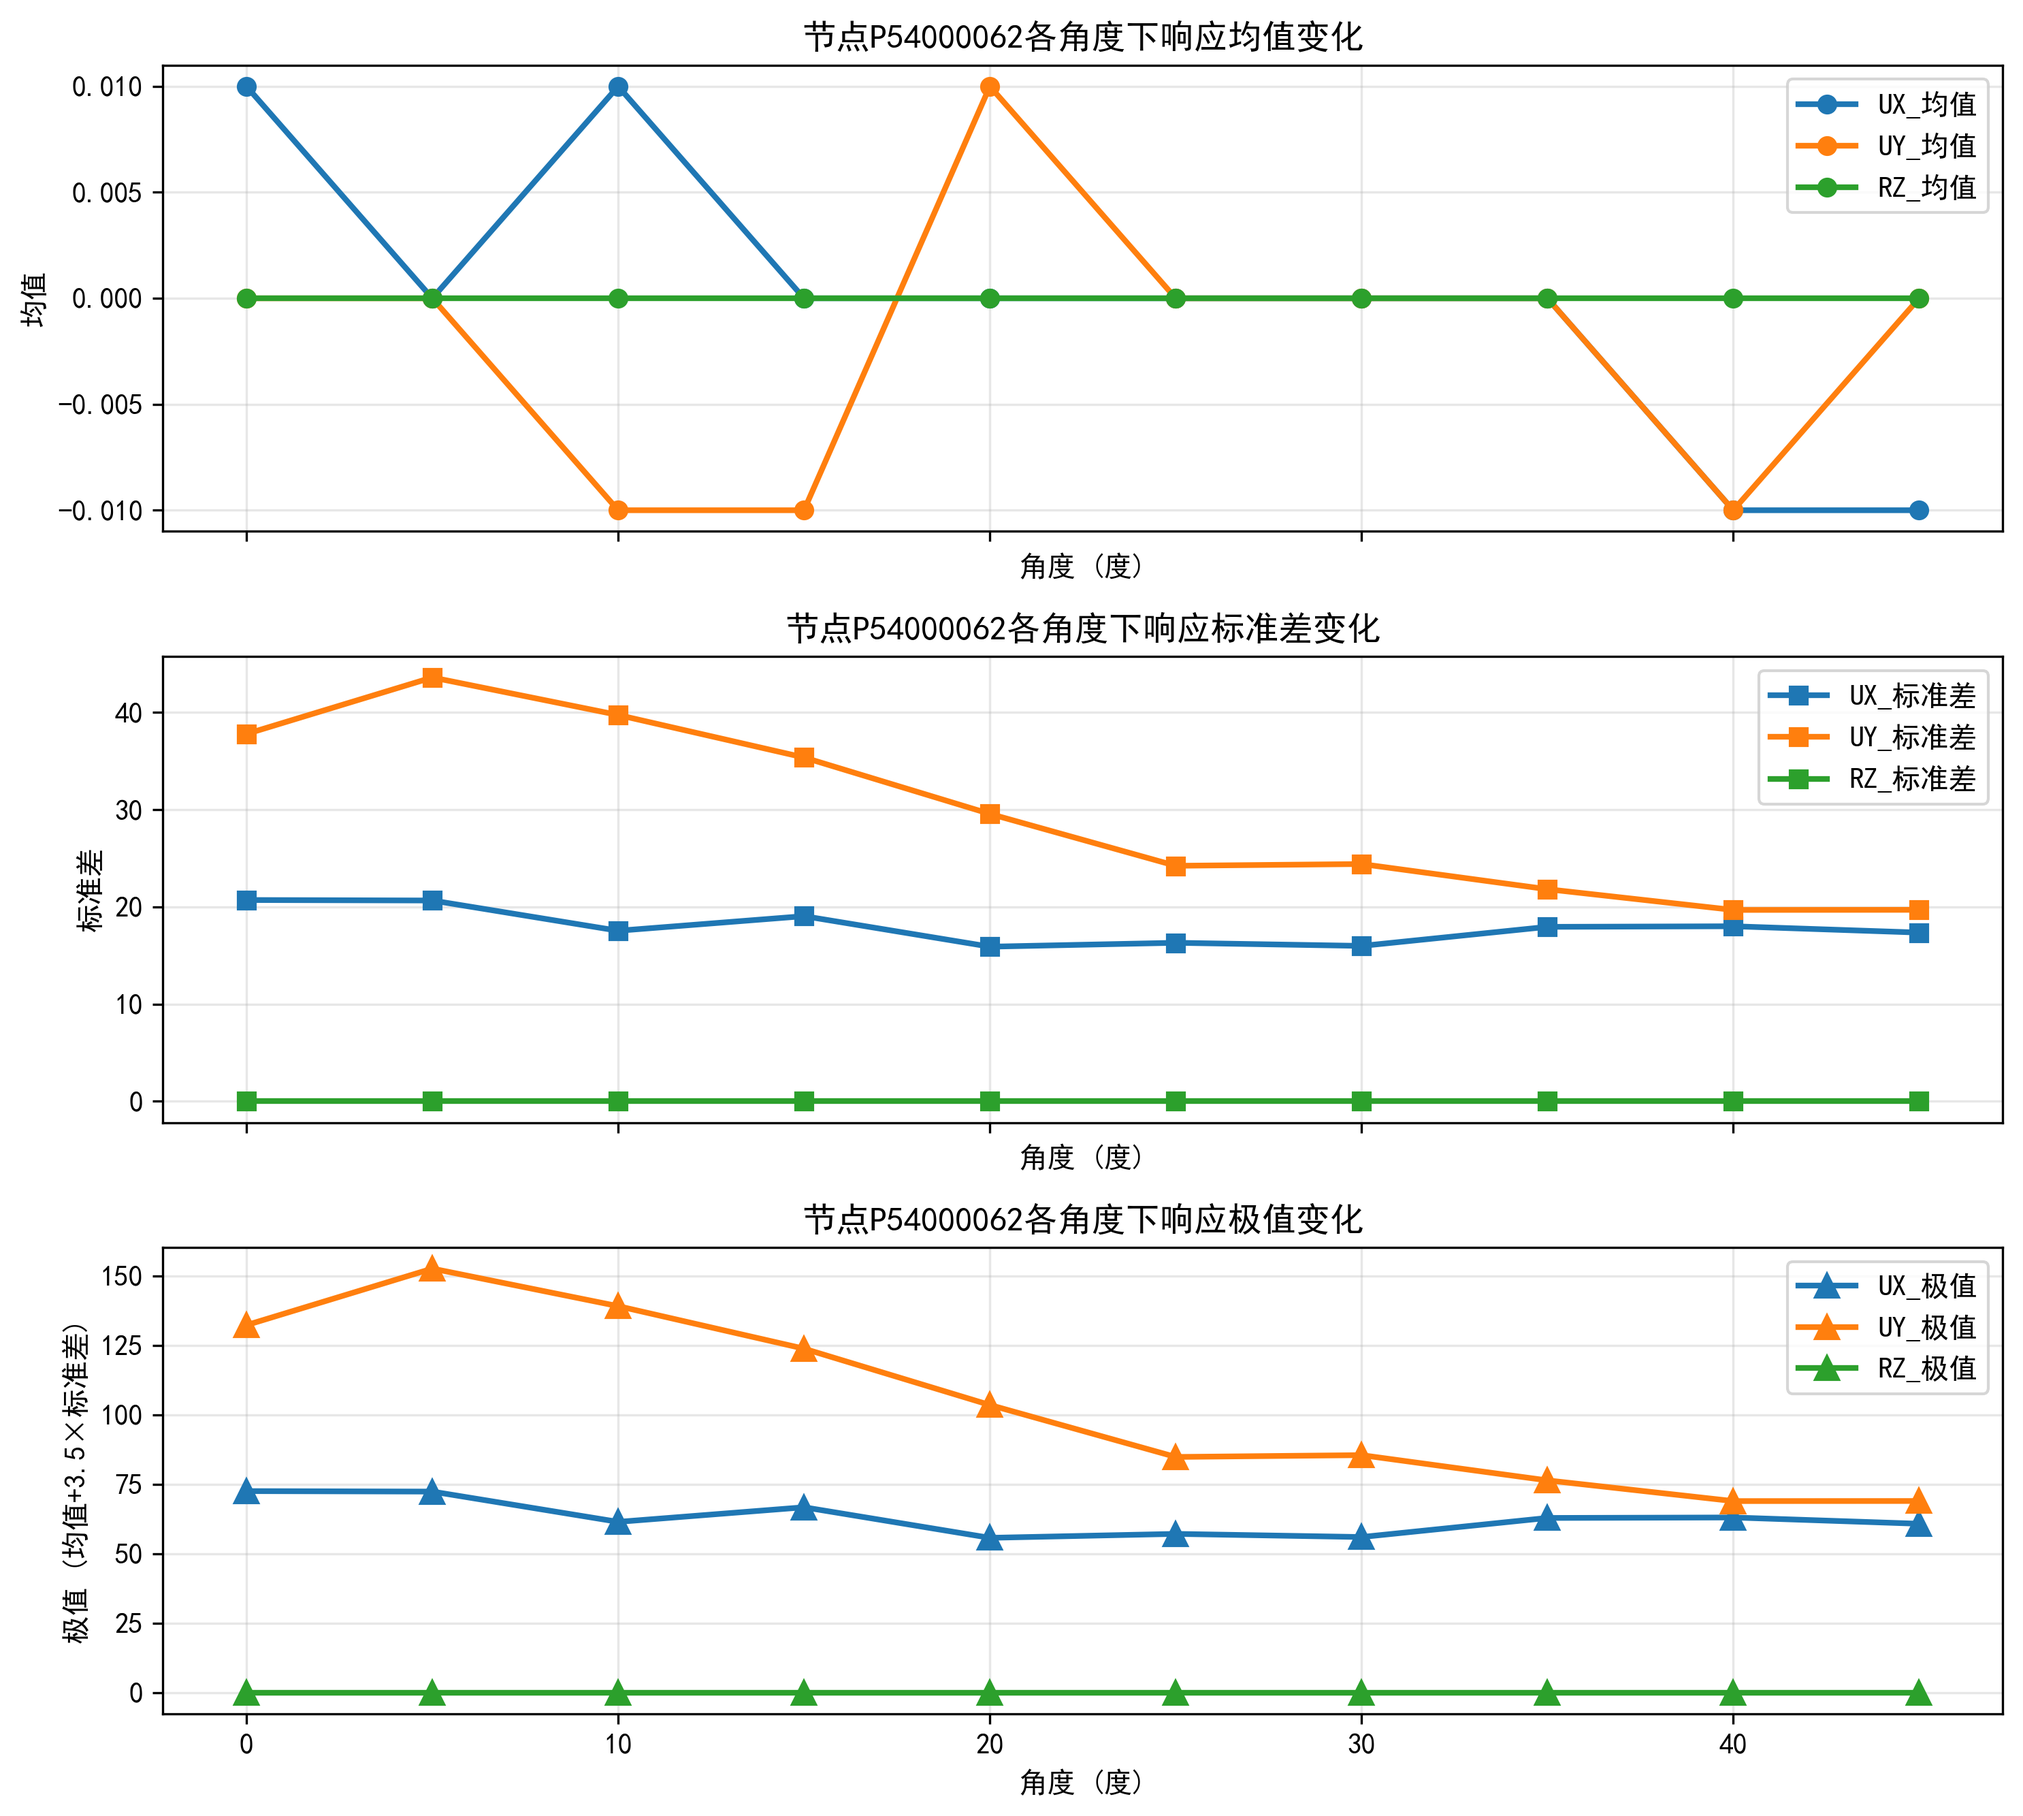
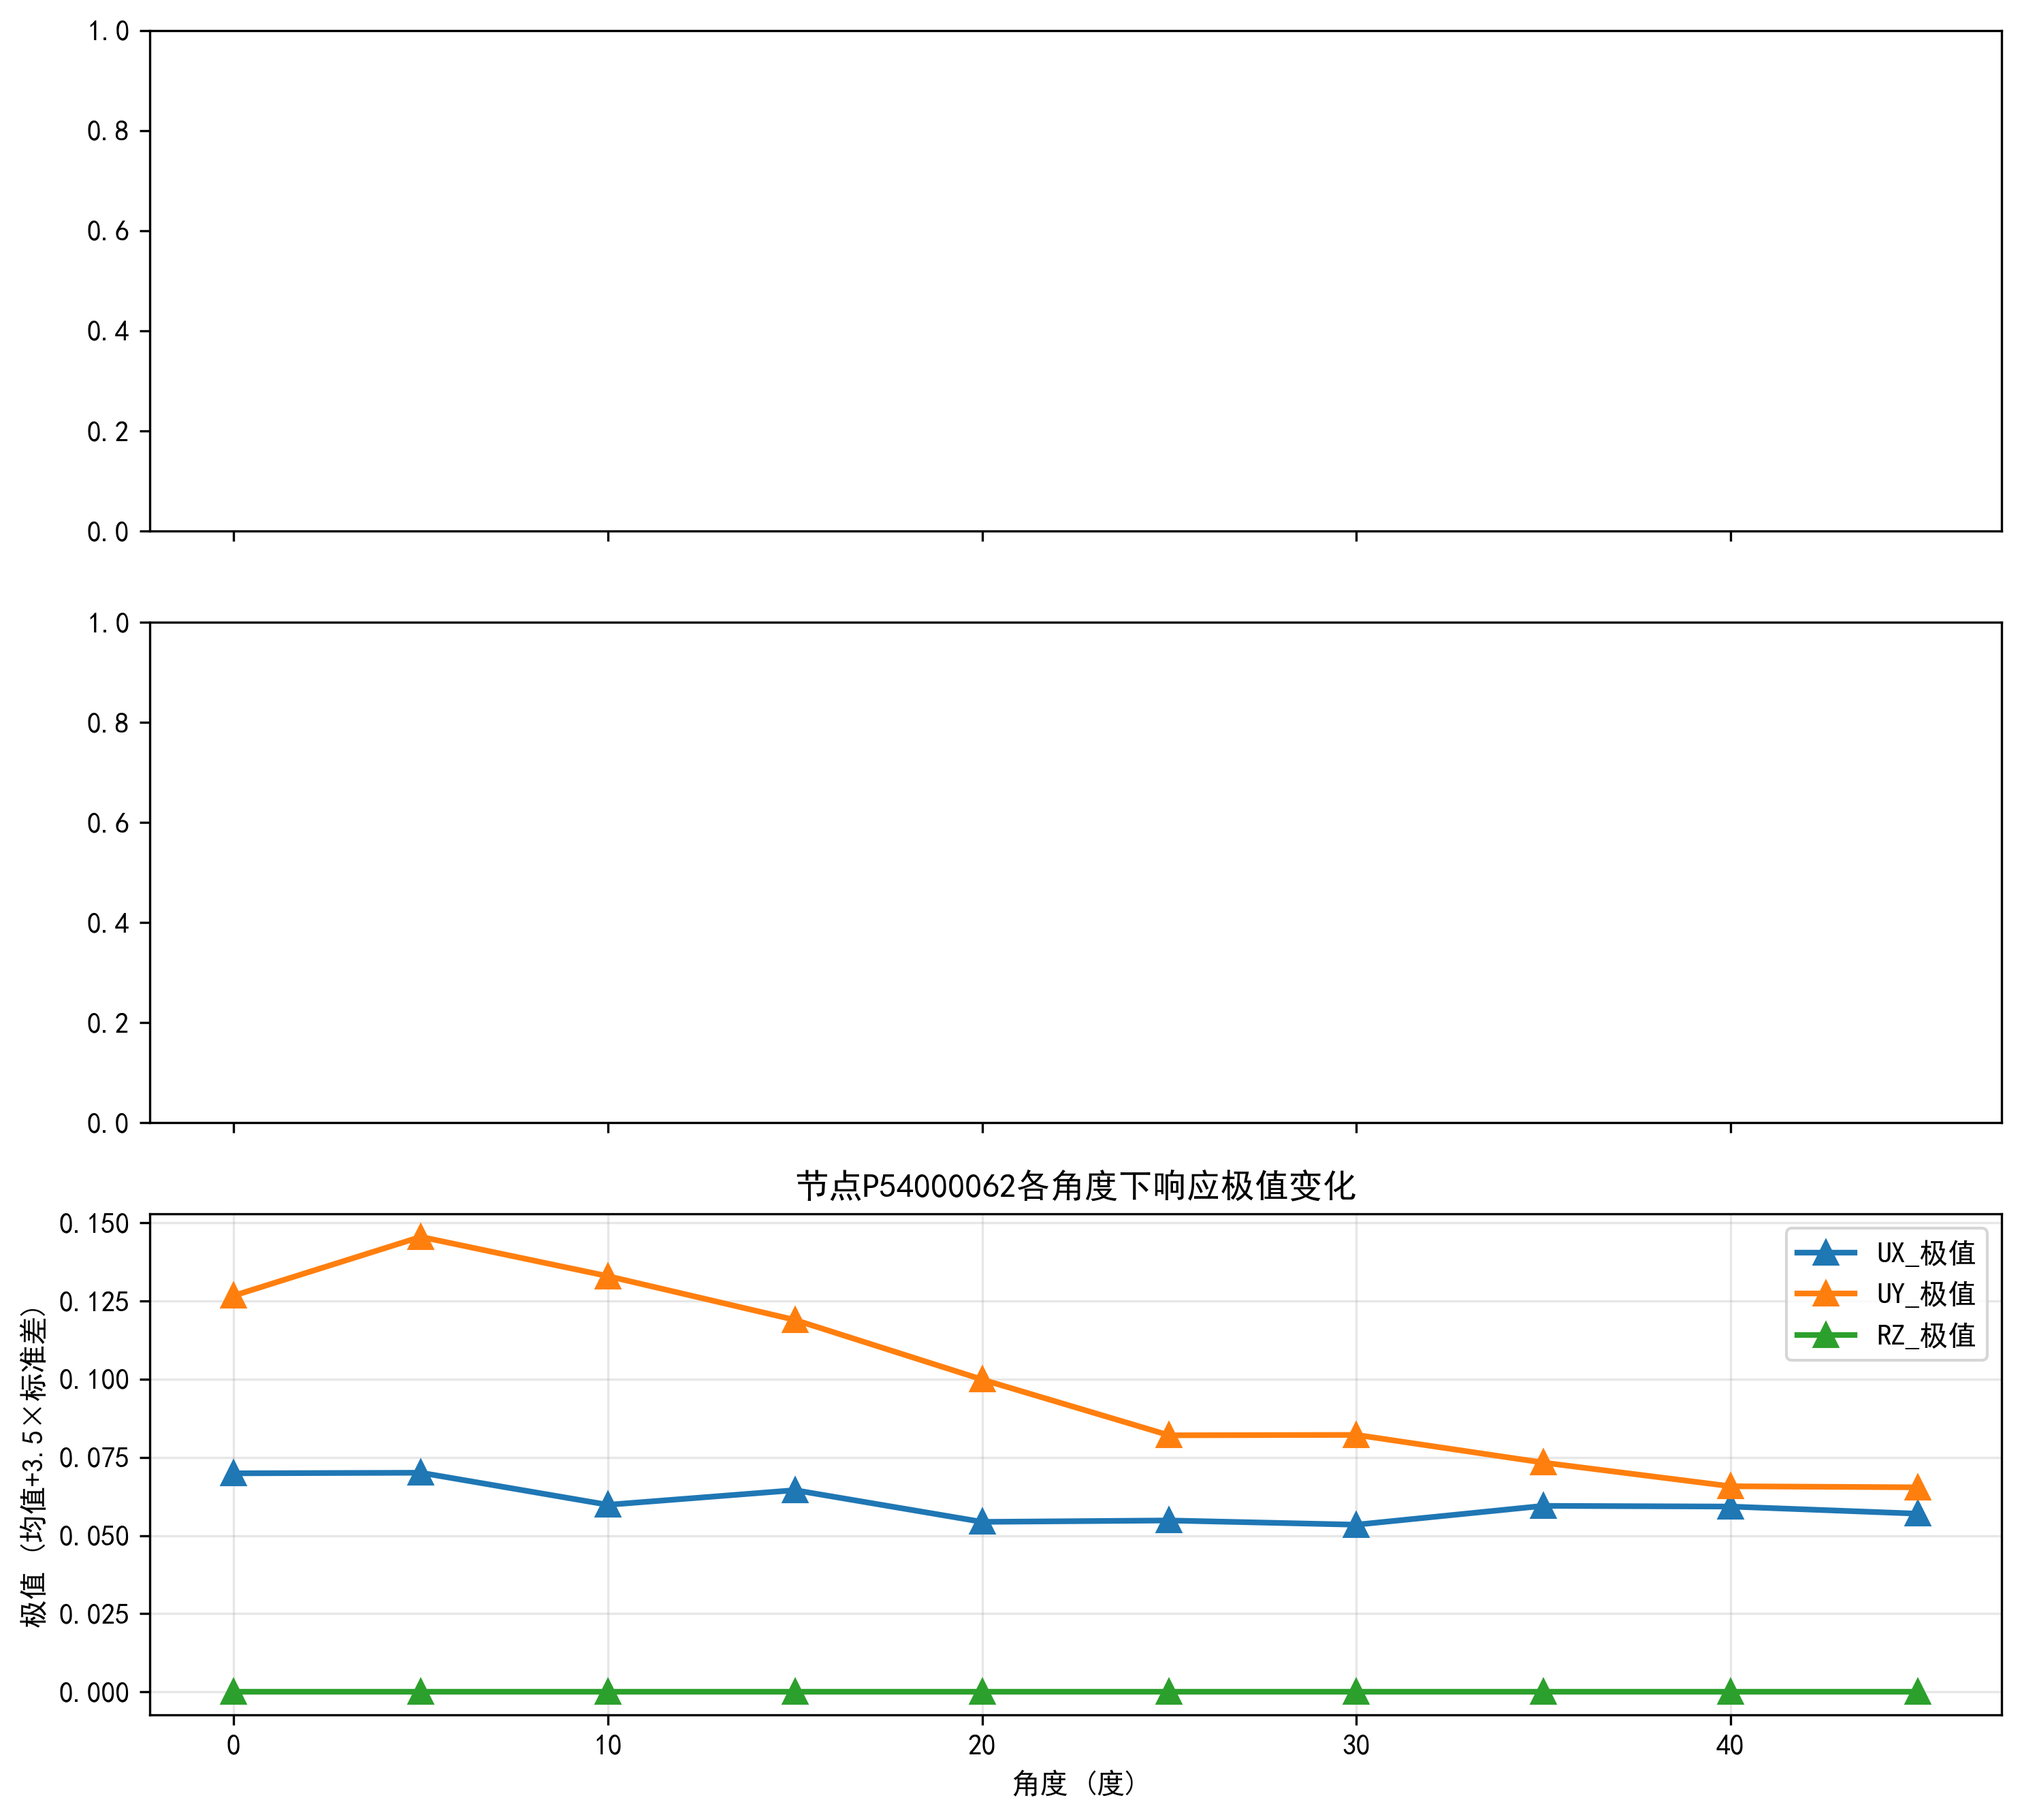
1

diff --git a/PostProcessing.py b/PostProcessing.py
@@ -10,10 +10,10 @@ import matplotlib.pyplot as plt
 
 # 导入编写的函数工具
 sys.path.append(os.path.join(os.path.dirname(__file__), 'code'))
-from utils.io_utils.utils import g_D
-
+from utils.io_utils.utils import *
+    
 # 设置文件路径和目标列
-building_name = "1-1"  # 模型名称
+building_name = "3-1"  # 模型名称
 analysis_type = "Acceleration"  # 分析类型
 path_Now = os.path.dirname(os.path.abspath(__file__))
 output_folder = os.path.join(os.getcwd(), "data", "output", "Timehistory_modal", building_name, analysis_type)
@@ -42,9 +42,6 @@ for folder_name in folder_names:
     csv_files = [f for f in os.listdir(folder_path) if f.endswith(".csv")]
     last_5_files = csv_files[-5:]  # 取最后5个文件
     
-    # 存储当前文件夹的数据
-    folder_stats = {col: {'means': [], 'stds': []} for col in target_columns}
-
     # 为每个文件创建一行数据，包含所有指标的统计量
     file_result = {
         'folder':folder_name,
@@ -77,17 +74,17 @@ for folder_name in folder_names:
         for col in available_cols:
             mean_val = file_data[col].mean()
             std_val = file_data[col].std()
-            extreme_val = mean_val + 3.5 * std_val
             
-            # 保存到文件夹统计中
-            folder_stats[col]['means'].append(mean_val)
-            folder_stats[col]['stds'].append(std_val)
+            g = g_D(file_data[col], dt=1/8.3227)
+            extreme_val = mean_val + g * std_val
             
             # 保存详细结果
-            file_result[f'P{last_number}_{col}_mean'] = round(mean_val, 2)
-            file_result[f'P{last_number}_{col}_std'] = round(std_val, 2)
-            file_result[f'P{last_number}_{col}_extreme'] = round(extreme_val, 2)
+            # file_result[f'P{last_number}_{col}_mean'] = round(mean_val, 2)/1000  # 转换为m
+            # file_result[f'P{last_number}_{col}_std'] = round(std_val, 2)/1000  # 转换为m
+            file_result[f'P{last_number}_{col}_extreme'] = round(extreme_val, 2)/1000  # 转换为m
 
+        range_2D = CDC(file_data['UX'].values, file_data['UY'].values, tDlt=1/8.3227)
+        file_result[f'P{last_number}_range_2D_extreme'] = round(range_2D, 2)/1000  # 转换为m
     # 添加完整的文件结果到列表
     results_data.append(file_result)
         
@@ -112,23 +109,23 @@ if results_data:
         # 创建三个子图
         fig, (ax1, ax2, ax3) = plt.subplots(3, 1, figsize=(10, 9), sharex=True)
         
-        # 绘制均值图
-        for col in target_columns:
-            ax1.plot(angles, results_df[f'P{point}_{col}_mean'], marker='o', label=f'{col}_均值', linewidth=2)
-        ax1.set_xlabel('角度 (度)')
-        ax1.set_ylabel('均值')
-        ax1.set_title(f'节点P{point}各角度下响应均值变化')
-        ax1.legend()
-        ax1.grid(True, alpha=0.3)
+        # # 绘制均值图
+        # for col in target_columns:
+        #     ax1.plot(angles, results_df[f'P{point}_{col}_mean'], marker='o', label=f'{col}_均值', linewidth=2)
+        # ax1.set_xlabel('角度 (度)')
+        # ax1.set_ylabel('均值')
+        # ax1.set_title(f'节点P{point}各角度下响应均值变化')
+        # ax1.legend()
+        # ax1.grid(True, alpha=0.3)
         
-        # 绘制标准差图
-        for col in target_columns:
-            ax2.plot(angles, results_df[f'P{point}_{col}_std'], marker='s', label=f'{col}_标准差', linewidth=2)
-        ax2.set_xlabel('角度 (度)')
-        ax2.set_ylabel('标准差')
-        ax2.set_title(f'节点P{point}各角度下响应标准差变化')
-        ax2.legend()
-        ax2.grid(True, alpha=0.3)
+        # # 绘制标准差图
+        # for col in target_columns:
+        #     ax2.plot(angles, results_df[f'P{point}_{col}_std'], marker='s', label=f'{col}_标准差', linewidth=2)
+        # ax2.set_xlabel('角度 (度)')
+        # ax2.set_ylabel('标准差')
+        # ax2.set_title(f'节点P{point}各角度下响应标准差变化')
+        # ax2.legend()
+        # ax2.grid(True, alpha=0.3)
         
         # 绘制极值图
         for col in target_columns:
@@ -147,8 +144,7 @@ if results_data:
         plot_path = os.path.join(output_parent, f"节点P{point}响应分析图.png")
         plt.savefig(plot_path, dpi=300, bbox_inches='tight')
         print(f"图表已保存: {plot_path}")
-    
-    plt.show()
+    # plt.show()
 
 # 保存结果到CSV文件
 if results_data:
@@ -158,19 +154,26 @@ if results_data:
     print("\n结果预览:")
     print(results_df.head())
     
-    # 保存CSV文件
+    # 保存Excel文件
     output_parent = os.path.dirname(output_folder)
-    csv_path = os.path.join(output_parent, "响应统计结果.csv")
-    results_df.to_csv(csv_path, index=False, encoding="utf-8-sig")
-    print(f"结果已保存: {csv_path}")
-    
+    excel_path = os.path.join(output_parent, "响应统计结果.xlsx")
+
+    # 指定要保存的sheet名称
+    sheet_name = f"{analysis_type}"
+    if os.path.exists(excel_path): # 如果文件已存在，则追加数据
+        with pd.ExcelWriter(excel_path, mode='a', engine='openpyxl', if_sheet_exists='replace') as writer:
+            results_df.to_excel(writer, index=False, sheet_name=sheet_name)
+    else:  # 如果文件不存在，则创建新文件
+        with pd.ExcelWriter(excel_path, mode='w', engine='openpyxl') as writer:
+            results_df.to_excel(writer, index=False, sheet_name=sheet_name)
+    print(f"结果已保存: {excel_path}")
+
     # 打印统计信息
     folder_count = len(set(results_df['folder']))
     print(f"\n处理完成!")
     print(f"共处理了 {folder_count} 个角度的数据")
     # print(f"处理的指标: {', '.join(processed_metrics)}")
     
-
 else:
     print("没有生成有效的结果数据")
 

diff --git a/code/utils/io_utils/utils.py b/code/utils/io_utils/utils.py
@@ -59,3 +59,89 @@ def g_D(response_data, dt, tao=600, gama=0.5772):
     gi = k + gama / k
     
     return gi
+
+import numpy as np
+
+def dA(data, dt):
+    """
+    计算数据的一阶导数（使用数值微分）
+    
+    参数:
+        data: 输入数据数组
+        dt: 时间步长
+    
+    返回:
+        一阶导数数组
+    """
+    return np.gradient(data, dt)
+
+def g_CartandLong(data, std_val, std_dot, T, fs):
+    """
+    Cart and Long峰值因子计算方法
+    
+    参数:
+        data: 响应时程数据
+        std_val: 响应标准差
+        std_dot: 响应一阶导标准差
+        T: 持续时间
+        fs: 采样频率
+    
+    返回:
+        峰值因子
+    """
+    # 简化实现，可以根据需要替换为更精确的Cart-Long方法
+    v0 = std_dot / (2 * np.pi * std_val)
+    k = np.sqrt(2 * np.log(v0 * T))
+    return k + 0.5772 / k
+
+def CDC(Xt, Yt, tDlt):
+    """
+    CPF方法二维响应极值计算
+    
+    参数:
+        Xt: X方向响应时程，零均值
+        Yt: Y方向响应时程，零均值
+        tDlt: 采样时间间隔
+    
+    返回:
+        R_CDC: CPF方法二维响应极值
+    """
+    # 转换为numpy数组
+    Xt = np.array(Xt)
+    Yt = np.array(Yt)
+    
+    # 去除均值，确保零均值
+    Xt = Xt - np.mean(Xt)
+    Yt = Yt - np.mean(Yt)
+    
+    # 计算X方向统计量
+    std_X = np.std(Xt)
+    std_X_dian = np.std(dA(Xt, tDlt))
+    gf_X = g_CartandLong(Xt, std_X, std_X_dian, 600, 1/tDlt)
+    
+    # 计算Y方向统计量
+    std_Y = np.std(Yt)
+    std_Y_dian = np.std(dA(Yt, tDlt))
+    gf_Y = g_CartandLong(Yt, std_Y, std_Y_dian, 600, 1/tDlt)
+    
+    # 计算相关系数
+    correlation_matrix = np.corrcoef(Xt, Yt)
+    rouxy = correlation_matrix[0, 1]
+    
+    # 计算极值响应
+    # R1公式
+    term1 = (gf_X * std_X)**2 + (gf_Y * std_Y)**2
+    term2_inner = ((gf_X * std_X)**2 - (gf_Y * std_Y)**2)**2 / 4
+    term2_corr = (rouxy * gf_X * std_X * gf_Y * std_Y)**2
+    term2 = np.sqrt(term2_inner + term2_corr)
+    R1 = np.sqrt(term1/2 + term2)
+    
+    # R2公式
+    R2 = 0.8 * np.sqrt((gf_X * std_X)**2 + (gf_Y * std_Y)**2)
+    
+    # 取最大值
+    R_CDC = max(R1, R2)
+    
+    return R_CDC
+
+    
